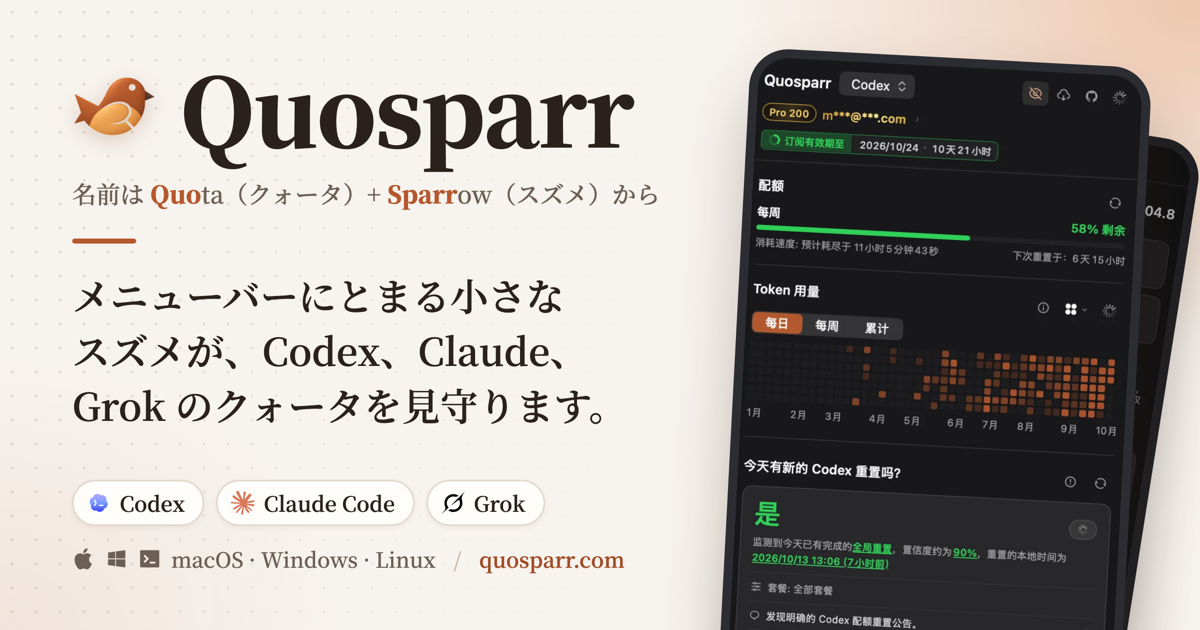
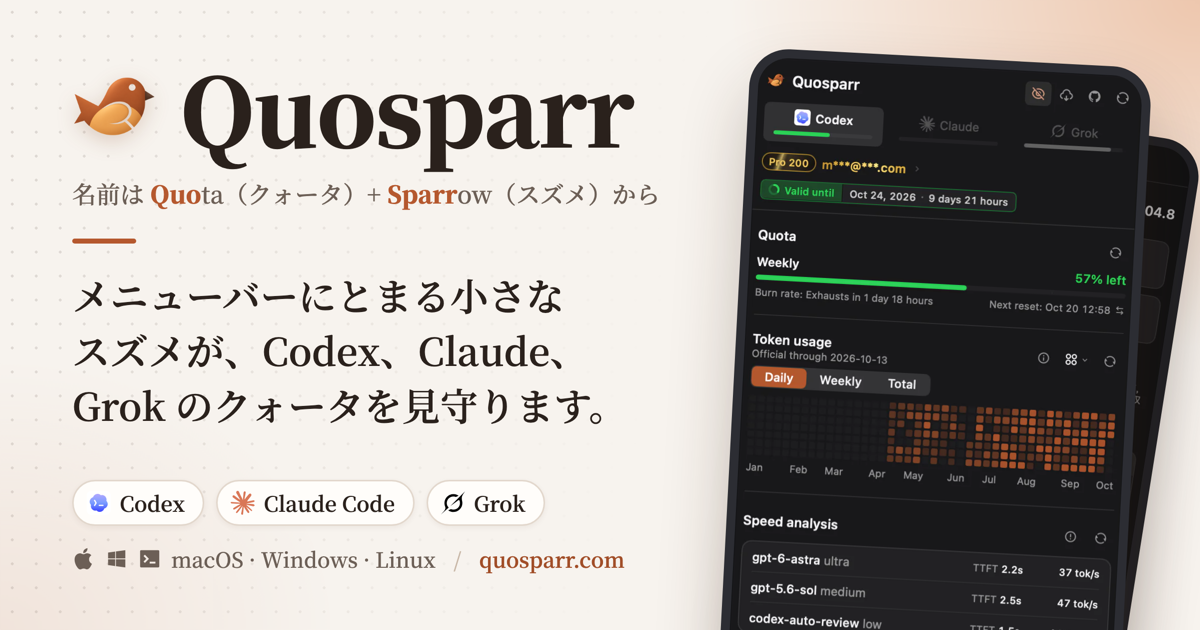
feat(website): 主面板截图换为新版，中文用 1.webp、其他语言用 1-en.webp

diff --git a/website/gen/render.go b/website/gen/render.go
@@ -89,9 +89,9 @@ func render(root, out string, locales []Locale, rel Release) error {
 			ReadmeURL:  repoURL + "/blob/main/" + l.Readme,
 			UpgradeURL: repoURL + "/blob/main/" + l.Upgrade,
 		}
-		page.Hero = shots[1].with(l.T.Shots.Main)
-		page.Wide = shots[2].with(l.T.Shots.Windows)
-		page.Gallery = []Image{shots[3].with(l.T.Shots.Cost), shots[6].with(l.T.Shots.Estimate), shots[4].with(l.T.Shots.Accounts), shots[5].with(l.T.Shots.Display)}
+		page.Hero = shots[mainShot(l)].with(l.T.Shots.Main)
+		page.Wide = shots["2"].with(l.T.Shots.Windows)
+		page.Gallery = []Image{shots["3"].with(l.T.Shots.Cost), shots["6"].with(l.T.Shots.Estimate), shots["4"].with(l.T.Shots.Accounts), shots["5"].with(l.T.Shots.Display)}
 		page.JSONLD, err = jsonLD(page)
 		if err != nil {
 			return err
@@ -124,22 +124,31 @@ func (img Image) with(alt string) Image {
 	return img
 }
 
-func copyShots(src, dst string) (map[int]Image, error) {
-	shots := map[int]Image{}
-	for i := 1; i <= 6; i++ {
-		data, err := os.ReadFile(filepath.Join(src, fmt.Sprintf("%d.webp", i)))
+// mainShot names the main panel screenshot in the page's language: 1 shows
+// the Chinese UI and 1-en the English one.
+func mainShot(l Locale) string {
+	if strings.HasPrefix(l.Code, "zh-") {
+		return "1"
+	}
+	return "1-en"
+}
+
+func copyShots(src, dst string) (map[string]Image, error) {
+	shots := map[string]Image{}
+	for _, n := range []string{"1", "1-en", "2", "3", "4", "5", "6"} {
+		data, err := os.ReadFile(filepath.Join(src, n+".webp"))
 		if err != nil {
 			return nil, err
 		}
 		w, h, err := webpSize(data)
 		if err != nil {
-			return nil, fmt.Errorf("docs/images/%d.webp: %w", i, err)
+			return nil, fmt.Errorf("docs/images/%s.webp: %w", n, err)
 		}
-		name := fmt.Sprintf("shot-%d.webp", i)
+		name := "shot-" + n + ".webp"
 		if err := os.WriteFile(filepath.Join(dst, name), data, 0o644); err != nil {
 			return nil, err
 		}
-		shots[i] = Image{Src: "/img/" + name, W: w, H: h}
+		shots[n] = Image{Src: "/img/" + name, W: w, H: h}
 	}
 	return shots, nil
 }

diff --git a/website/gen/gen_test.go b/website/gen/gen_test.go
@@ -69,7 +69,7 @@ func TestReleaseFromGitHub(t *testing.T) {
 }
 
 func TestWebpSize(t *testing.T) {
-	for name, want := range map[string][2]int{"1.webp": {764, 1785}, "2.webp": {1600, 886}} {
+	for name, want := range map[string][2]int{"2.webp": {1600, 886}, "1.webp": {778, 1793}, "1-en.webp": {762, 1786}} {
 		data, err := os.ReadFile(filepath.Join(repoRoot, "docs", "images", name))
 		if err != nil {
 			t.Fatal(err)
@@ -102,6 +102,7 @@ func TestBuildWritesEveryLanguage(t *testing.T) {
 			`hreflang="x-default"`,
 			`application/ld+json`,
 			`data-asset="mac-arm64"`,
+			`src="/img/shot-` + mainShot(l) + `.webp"`,
 		} {
 			if !strings.Contains(html, want) {
 				t.Errorf("%s: missing %s", l.Code, want)

diff --git a/README_RU.md b/README_RU.md
@@ -55,7 +55,7 @@ Quosparr — нативное приложение для строки меню 
     <th colspan="2">Оценка лимита подписки</th>
   </tr>
   <tr>
-    <td colspan="2" align="center" valign="top"><img src="docs/images/1.webp?v1" alt="Quosparr Главная панель" width="240"></td>
+    <td colspan="2" align="center" valign="top"><img src="docs/images/1-en.webp?v2" alt="Quosparr Главная панель" width="240"></td>
     <td colspan="2" align="center" valign="top"><img src="docs/images/3.webp?v1" alt="Quosparr Эквивалентная стоимость API" width="240"></td>
     <td colspan="2" align="center" valign="top"><img src="docs/images/6.webp?v1" alt="Quosparr Оценка лимита подписки" width="240"></td>
   </tr>

diff --git a/README_FR.md b/README_FR.md
@@ -55,7 +55,7 @@ Quosparr est une application native de barre de menus / zone de notification pou
     <th colspan="2">Estimation du quota d’abonnement</th>
   </tr>
   <tr>
-    <td colspan="2" align="center" valign="top"><img src="docs/images/1.webp?v1" alt="Quosparr Panneau principal" width="240"></td>
+    <td colspan="2" align="center" valign="top"><img src="docs/images/1-en.webp?v2" alt="Quosparr Panneau principal" width="240"></td>
     <td colspan="2" align="center" valign="top"><img src="docs/images/3.webp?v1" alt="Quosparr Coût équivalent API" width="240"></td>
     <td colspan="2" align="center" valign="top"><img src="docs/images/6.webp?v1" alt="Quosparr Estimation du quota d’abonnement" width="240"></td>
   </tr>

diff --git a/README.md b/README.md
@@ -55,7 +55,7 @@ Quosparr is a native menu bar / system tray app for macOS, Windows, and Linux. I
     <th colspan="2">Subscription quota estimate</th>
   </tr>
   <tr>
-    <td colspan="2" align="center" valign="top"><img src="docs/images/1.webp?v1" alt="Quosparr Main panel" width="240"></td>
+    <td colspan="2" align="center" valign="top"><img src="docs/images/1-en.webp?v2" alt="Quosparr Main panel" width="240"></td>
     <td colspan="2" align="center" valign="top"><img src="docs/images/3.webp?v1" alt="Quosparr API-equivalent cost" width="240"></td>
     <td colspan="2" align="center" valign="top"><img src="docs/images/6.webp?v1" alt="Quosparr Subscription quota estimate" width="240"></td>
   </tr>
